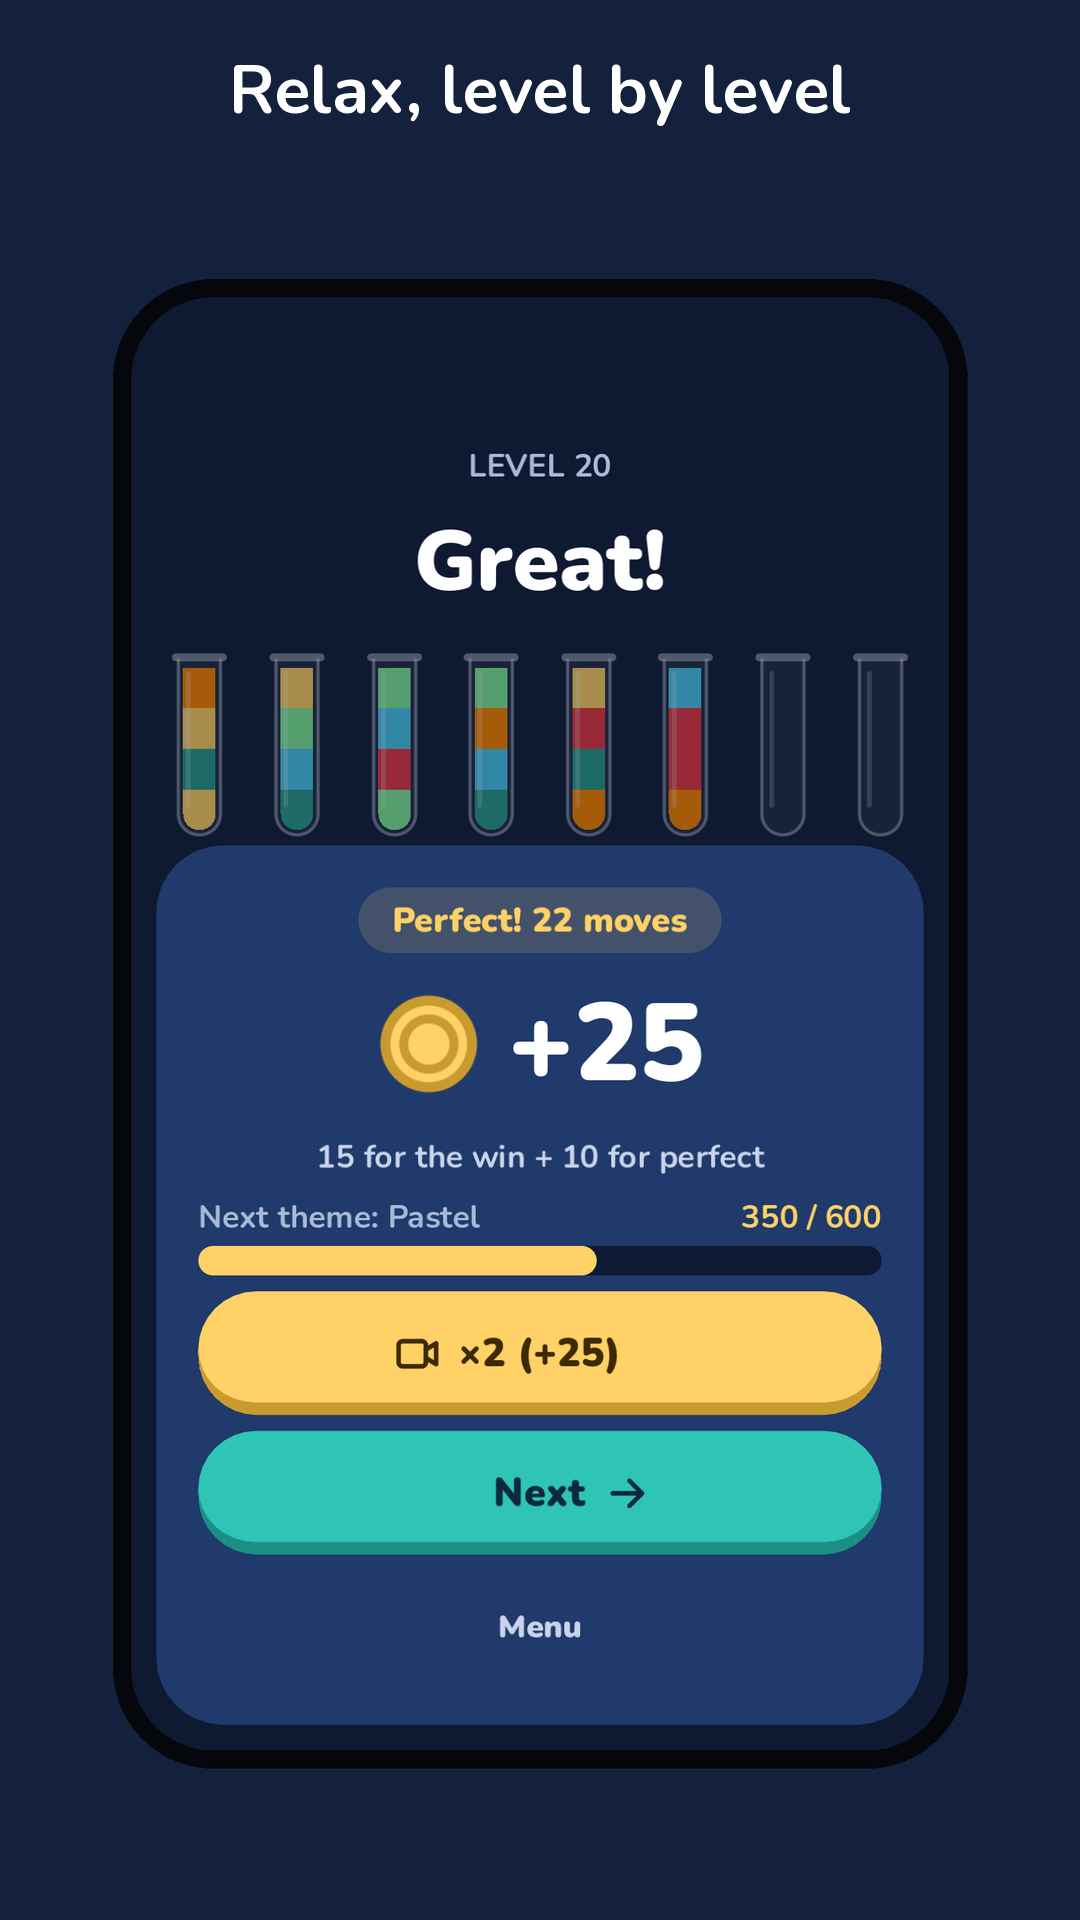
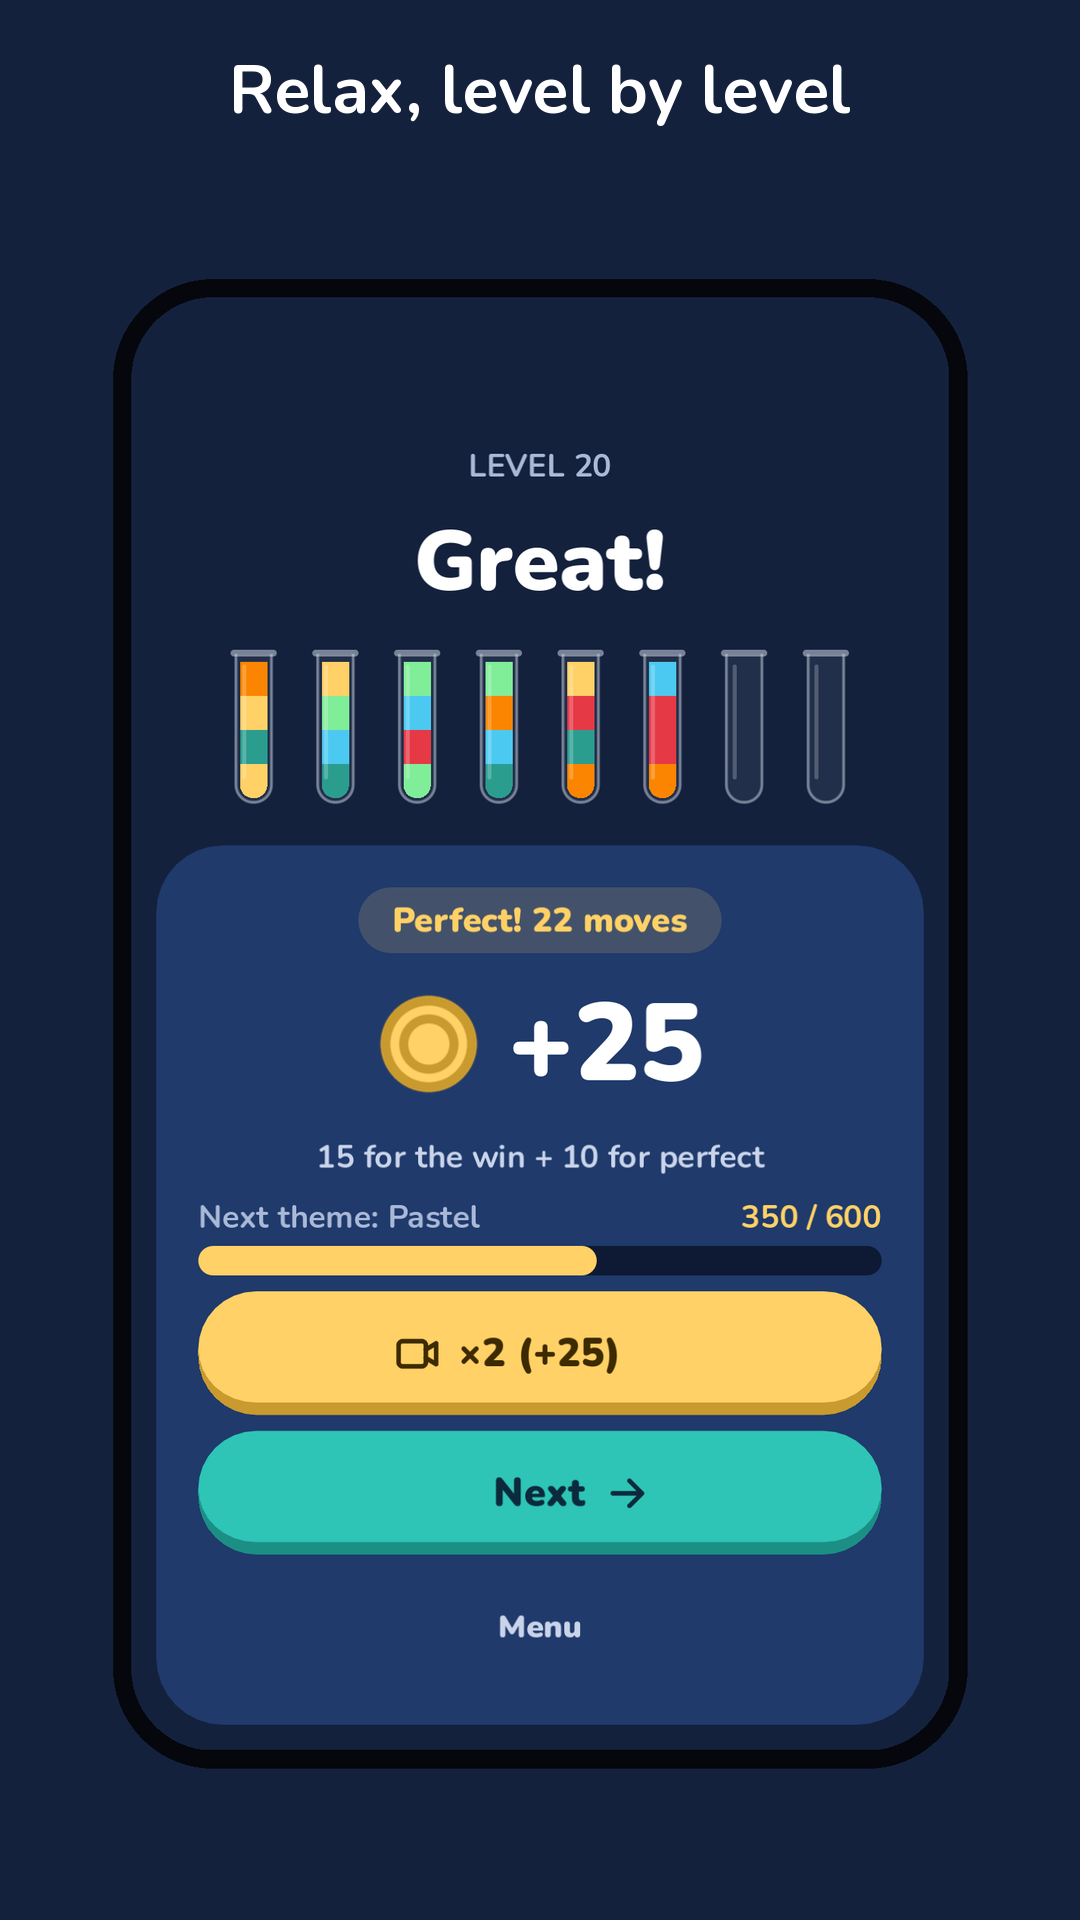
feat(T-299): kadry sklepowe EN/PL/DE po UI v2 + odbiór refill #18
Claude-Session: https://claude.ai/code/session_01BjfYQabSGmpKBqLMsCXEV5

Changed region(s): [[0.1528, 0.3125, 0.4889, 0.4375], [0.5194, 0.3125, 0.8556, 0.4375]]

diff --git a/docs/ui/ACCEPTANCE_T-236b.md b/docs/ui/ACCEPTANCE_T-236b.md
@@ -37,3 +37,21 @@ Werdykt ogólny: **PASS (8/8 PASS; 5 z nich „PASS (drobne)”)**
 
 ## Decyzja
 PASS → kadry sklepowe `fastlane/metadata/android/{en-US,pl-PL,de-DE}/images/phoneScreenshots/*.png` (15 PNG 1080×1920) podmienione w tym PR. Drobne odstępstwa → Inbox T-289…T-294 (BACKLOG.md). Resztki P3: T-266 scalone w T-287 (zamknięte), T-269 i T-281 zostają otwarte w P3.
+
+## Refill #18 (T-299, 2026-10-26)
+Metoda: worktree task/T-299 (zawiera T-300…T-303). Uruchomiono `bash tools/gen_screenshots.sh --store` (exit 0, 15 PNG EN/PL/DE przegenerowane), `make screenshots-smoke` (exit 0, 1280), `bash tools/gen_screenshots.sh --size 720x1560` (exit 0). Obejrzano: store DE 01…05, smoke 1280 (02, 03, 04, 05, 13, 14, 15, 16) oraz 1560 (13_shop_starter) vs makiety `docs/ui/mockups/01…07`. PL/EN store nie oglądane osobno. Odstępstwa „(drobne)” z T-283 zniknęły: okrągłe HUD (T-301), 4. przycisk z monetą + 60 w `01_pour`, ikona undo_clock w „+3 undos”, probówki LevelComplete w pełnych kolorach z odstępem od karty, badge „Neu!” w Home store, ikona video przy „×2”, Shop: zegar/coins_stack/video_off, pigułki Themes bez artefaktu. Brak ucięć tekstu w DE.
+
+Werdykt ogólny: **PASS (7/7 PASS (drobne))**
+
+| Ekran | Makieta | Kadr | Wynik | Odstępstwa |
+|---|---|---|---|---|
+| Level | 01_level | store DE 01_pour; smoke 02_level, 16_stuck_deadlock | PASS (drobne) | Okrągłe przyciski HUD, 4. przycisk z monetą + 60, plansza bez ucięć. (a) W smoke 02_level (Level 1) 4. przycisk to „Ad” z ikoną video — zamierzone (reklama ma pierwszeństwo, T-230). (b) Plansza w smoke (4 probówki) mała, dużo pustego miejsca. (c) 16_stuck_deadlock: ściemnione probówki pod panelem, brak ucięć. |
+| StuckPanel | 02_stuck | smoke 04_stuck_panel | PASS (drobne) | Cztery wiersze, X krążek, ikona undo z zegarem w „+3 undos”, Restart + Skip. Pod panelem nadal `show_sample()` (T-281, otwarte w P3). |
+| LevelComplete | 03_level_complete | store DE 02_relax; smoke 03 | PASS (drobne) | Probówki w pełnych kolorach, wyraźny odstęp od karty także w smoke, brak ucięć w DE. (a) Pill „Perfekt!” bez gwiazdki (makieta ma ★). (b) Smoke ma dodatkową linię „Next level: +1 color”. (c) Rząd 6 pełnych + 2 puste w makiecie vs 6 mieszanych + 2 puste w fixture store (zawartość, nie UI). |
+| Home | 04_home | store DE 03_daily; smoke 05_home | PASS (drobne) | Badge „Neu!” widoczny w store, Spielen/Belohnung/Neu in, bez ucięć w DE. (a) Opis „Dasselbe Level für alle · geschafft 23” w jednej linii (makieta: dwie) — OK. (b) Smoke: Play zablokowany (stan „From level 3”) — poprawne. |
+| DailyRewardPopup | 05_daily_reward | store DE 04_streak; smoke 14_daily_streak3 | PASS (drobne) | Ikona video obok tekstu ×2, X krążek, siatka dni z check-ami i obwódką „dziś”, brak ucięć. (a) Karta niższa niż w makiecie, widoczne tło Home. (b) Aktywny kafel podpisany „Tag 5” zamiast „Dziś” (makieta). |
+| Themes | 06_themes | store DE 05_themes; smoke 15_themes_locked | PASS | Pigułki cen bez artefaktu, aktywny motyw z check-iem i obwódką, karta postępu, brak ucięć. Różnica kolejności motywów (Neon aktywny) wynika ze stanu fixture. |
+| Shop | 07_shop | smoke 13_shop_starter (1280 i 1560) | PASS (drobne) | Ikony zegara, coins_stack i video_off obecne; brak pustego pasa pod listą na 1280. (a) Na 1280 wiersz „No ads” nadal przycięty na dole ScrollContainera (lista przewijana, widoczny scrollbar). (b) Na 1560 ~270 px wolnego miejsca między listą a „Restore purchases” (makieta: link tuż pod listą). |
+
+## Decyzja
+Wszystkie ekrany PASS lub PASS (drobne), brak FAIL → kadry sklepowe `fastlane/metadata/android/{en-US,pl-PL,de-DE}/images/phoneScreenshots/*.png` (15 PNG) podmienione w tym PR. Drobne odstępstwa (Shop 1280 przycięty wiersz „No ads”, Shop 1560 wolny pas, brak ★ w pillu LevelComplete, „Tag 5” zamiast „Dziś”) do Inbox; nie blokują.
